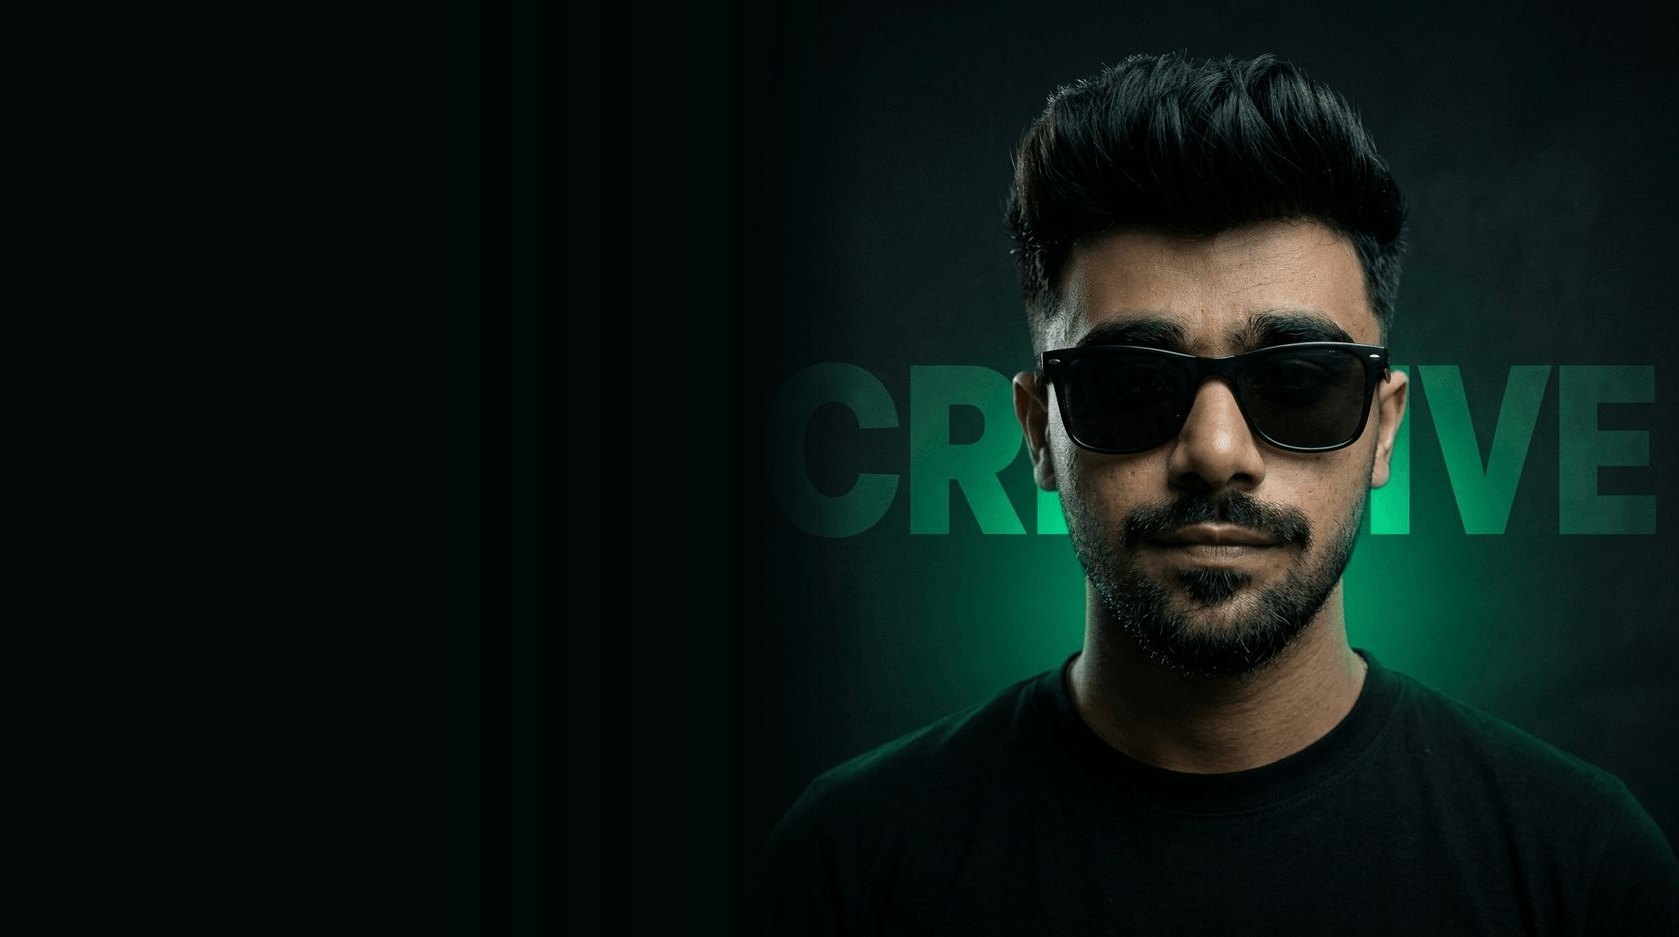
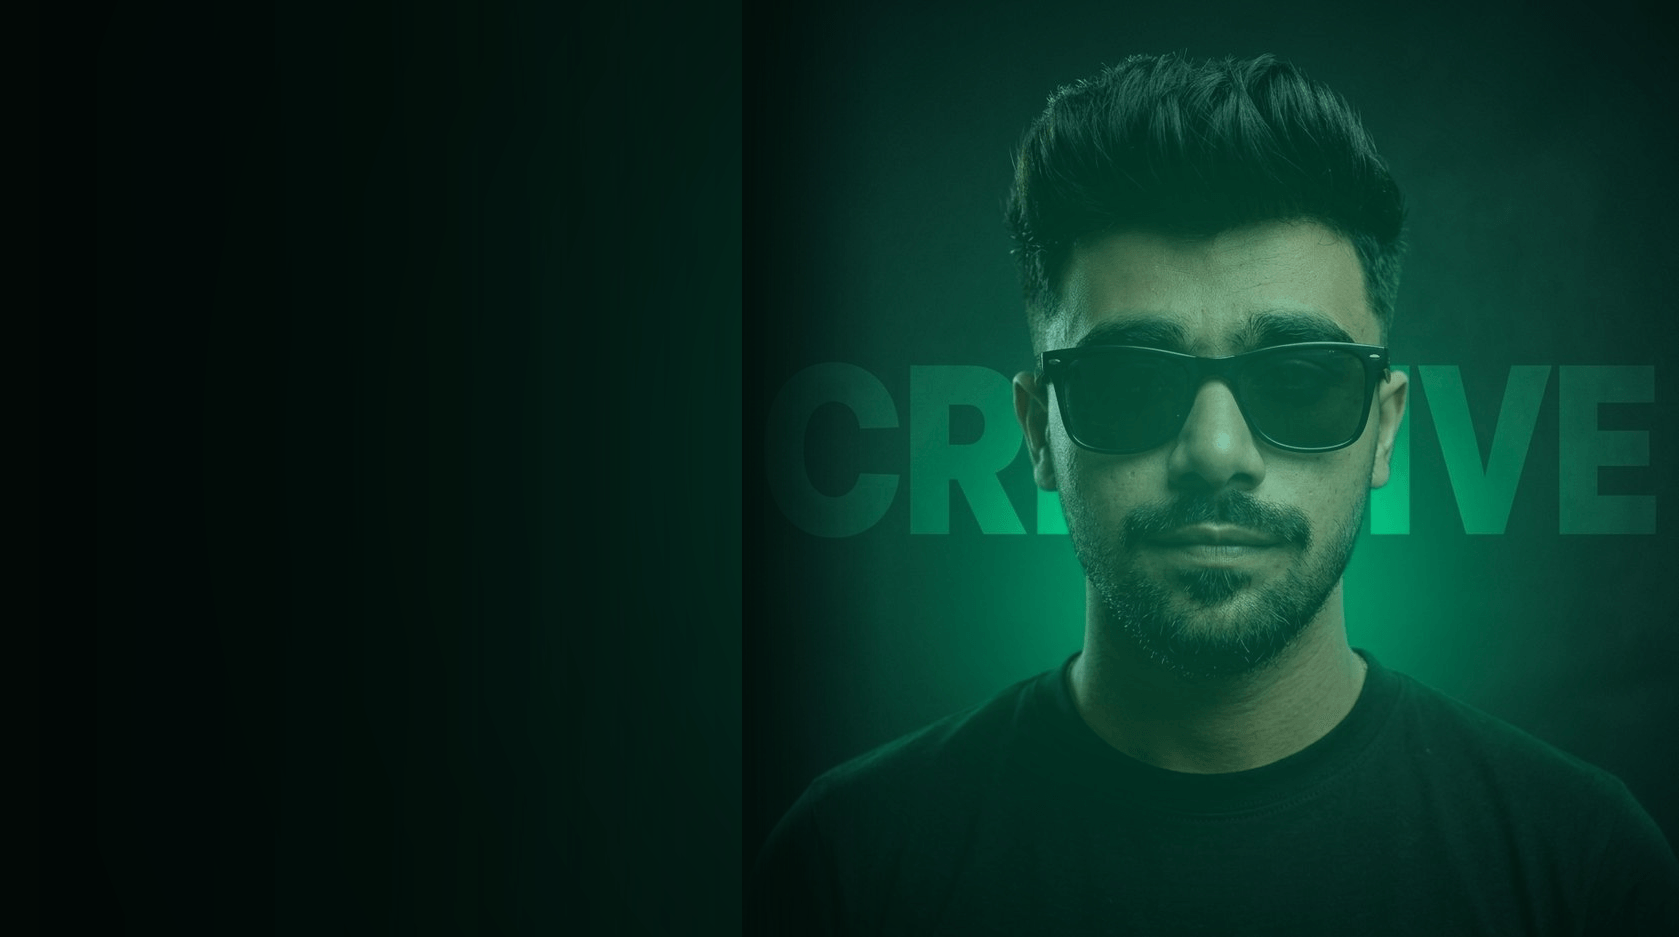
Extend emerald green background atmosphere across entire hero page

diff --git a/styles.css b/styles.css
@@ -325,6 +325,15 @@ body {
    -------------------------------------------------------------------------- */
 .hero-frame {
   margin-top: 1rem;
+  background: 
+    radial-gradient(circle at 75% 45%, rgba(16, 185, 129, 0.32) 0%, rgba(6, 78, 59, 0.24) 30%, rgba(4, 30, 22, 0.48) 55%, transparent 80%),
+    radial-gradient(circle at 25% 65%, rgba(5, 150, 105, 0.28) 0%, rgba(6, 78, 59, 0.18) 35%, transparent 70%),
+    linear-gradient(135deg, #020D0A 0%, #042017 38%, #03150F 70%, #020907 100%);
+  border: 1px solid rgba(16, 185, 129, 0.38);
+  box-shadow: 
+    0 25px 80px rgba(0, 0, 0, 0.95),
+    0 0 55px rgba(16, 185, 129, 0.24),
+    inset 0 0 90px rgba(6, 78, 59, 0.35);
 }
 
 .desktop-hero-showcase {
@@ -368,9 +377,9 @@ body {
   align-items: flex-start;
   padding: 0 2rem 0 clamp(2.5rem, 5.5vw, 6.2rem);
   background: linear-gradient(90deg, 
-    rgba(11, 13, 13, 0.97) 0%, 
-    rgba(11, 13, 13, 0.92) 42%, 
-    rgba(11, 13, 13, 0.6) 72%, 
+    rgba(2, 10, 8, 0.95) 0%, 
+    rgba(3, 20, 15, 0.88) 42%, 
+    rgba(4, 32, 24, 0.45) 75%, 
     transparent 100%
   );
   pointer-events: auto;
@@ -621,6 +630,9 @@ body {
 .mobile-hero-container {
   display: none;
   padding: 1.5rem 1.5rem 2.5rem 1.5rem;
+  background: 
+    radial-gradient(circle at 50% 68%, rgba(16, 185, 129, 0.38) 0%, rgba(6, 78, 59, 0.26) 35%, rgba(4, 28, 20, 0.4) 65%, transparent 85%),
+    radial-gradient(circle at 50% 15%, rgba(16, 185, 129, 0.28) 0%, rgba(5, 78, 59, 0.16) 40%, transparent 75%);
 }
 
 .mobile-hero-body {
@@ -749,9 +761,10 @@ body {
 
 .mobile-portrait-wrapper {
   width: 100%;
-  border-radius: 16px;
+  border-radius: 20px;
   overflow: hidden;
-  box-shadow: 0 16px 40px rgba(0, 0, 0, 0.6);
+  border: 1px solid rgba(16, 185, 129, 0.45);
+  box-shadow: 0 0 50px rgba(16, 185, 129, 0.30), 0 20px 50px rgba(0, 0, 0, 0.85);
   margin-bottom: 1.5rem;
 }
 
